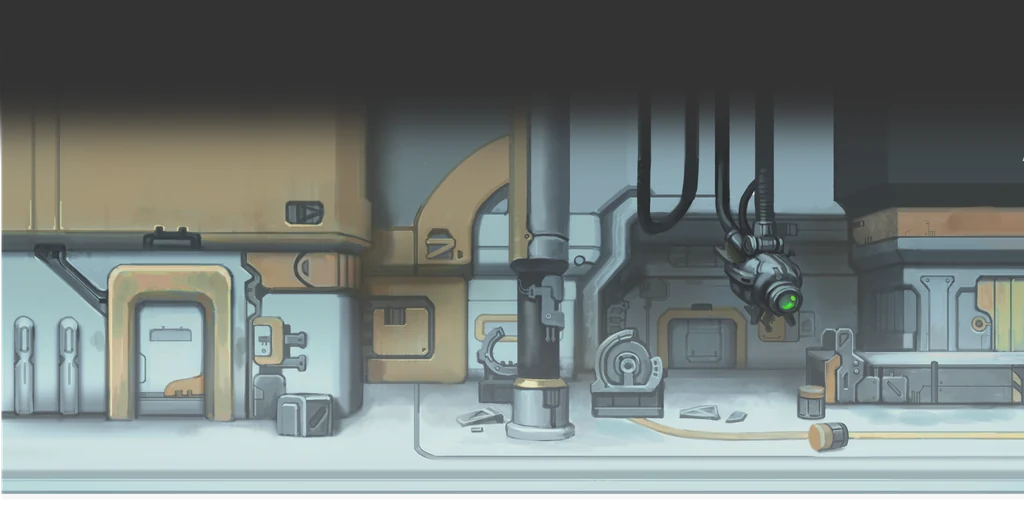
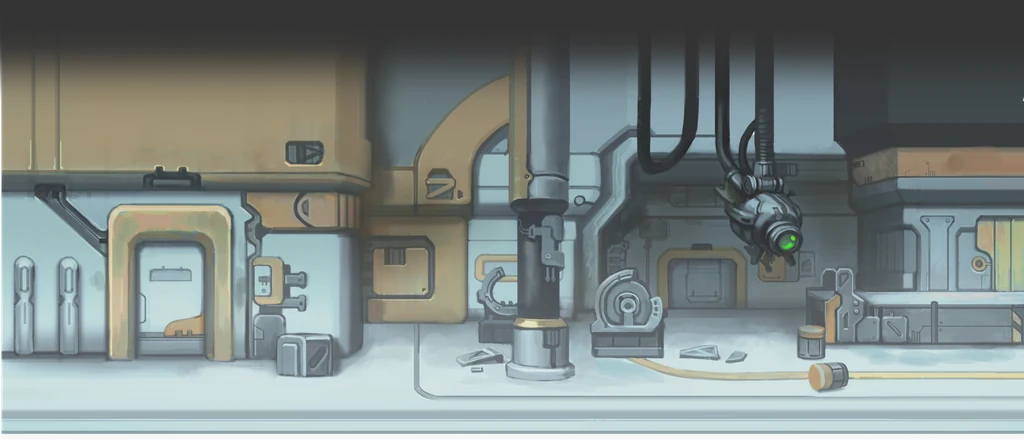
마을 다듬기: 밝은 마을은 어둠 덩어리 없이 은은한 빛만, 동굴 벽은 한 장 건너 뒤집어 이음선 없애기, 함장실 깔개 글자 바로, 휴게실 방은 화면을 바닥으로 채움, 드론 관제실에 관제 장비

diff --git a/js/town.js b/js/town.js
@@ -55,6 +55,9 @@
   };
   // 방: 원작 기지 시설 그림(배경 bg, 바닥이 시작하는 줄 fl, 옆벽 색 wall)과 가구. 사람·출구는 원래 방(지휘실·정비실·휴게실) 그대로
   const ROOM = (label, bg, fl, wall, deco) => ({ label, bg: 'town/' + bg, fl, wall, deco });
+  const PROPS = { // 장면 방에 놓는 소품: [그림, 가로 비율, 바닥 첫 줄에서 아래로, 칸 넓이, 그림 높이]
+    '드론 관제실': [['town/r_mm1_12', 0.12, 0, 1, 1.7], ['town/r_mk4_1', 0.24, 0, 1, 1.4], ['tiles/console', 0.7, 0, 2, 1.4], ['town/r_mm2_2', 0.86, 0, 1, 1.5]],
+  };
   // ── 지도 ──────────────────────────────────────────────
   // 칸: . 바탕  s 넓은 바닥  _ 길  ~ 물(막힘)  # 벼랑·잔해·덤불(막힘)  b 뒷배경 자리(막힘, 뒷배경 그림이 덮는다)  r 선로(막힘)
   function grid(W, H, fill, paint) {
@@ -96,7 +99,7 @@
   }
   const TOWNMAPS = {
     coast: {
-      rows: coastRows(), start: [12, 16], water: 'sea', dark: 0.1,
+      rows: coastRows(), start: [12, 16], water: 'sea',
       floor: { base: 'town/g_grass', zone: 'tiles/sand', path: 'tiles/sand', wall: 'tiles/forest', edge: 'rgba(70,50,20,.3)' },
       objects: [
         BLD('cmd', 'town/b_center', 4, 5, 5, 4, 6), BLD('shop', 'town/b_shop', 16, 5, 6, 4, 18), BLD('cafe', 'town/b_cafe', 9, 12, 6, 2, 11, { plinth: 0 }),
@@ -118,8 +121,8 @@
         R(0, 0, 26, 4, 'b'); R(0, 0, 1, 18, '#'); R(25, 0, 1, 18, '#'); R(0, 17, 26, 1, '#');
         R(1, 7, 24, 1, '_'); R(12, 7, 2, 11, '_'); R(3, 9, 20, 6, 's'); R(12, 7, 2, 11, '_'); R(21, 8, 1, 2, '_');
       }),
-      floor: { base: 'tiles/concrete', zone: 'tiles/factory', zoneA: 0.45, path: 'town/g_asph', wall: 'tiles/concrete', back: '#3b3a3c', lane: 'rgba(230,180,40,.8)', edge: 'rgba(0,0,0,0)' },
-      sky: ['#5d5a68', '#c79a72'], dark: 0.12, darkC: '20,14,10', fx: 'sparks', start: [12, 16],
+      floor: { base: 'tiles/concrete', zone: 'tiles/factory', zoneA: 0.22, path: 'town/g_asph', wall: 'tiles/concrete', back: '#3b3a3c', lane: 'rgba(230,180,40,.8)', edge: 'rgba(0,0,0,0)' },
+      sky: ['#5d5a68', '#c79a72'], fx: 'sparks', start: [12, 16],
       back: [{ art: 'town/t2_fence', by: 4.05, h: 2.0, repeat: 1 }],
       objects: [
         BLD('cmd', 'town/t2_cmd', 1, 4, 7, 3, 6), BLD('shop', 'town/t2_shop', 9, 4, 8, 3, 14), BLD('cafe', 'town/t2_cafe', 19, 4, 5, 3, 21),
@@ -145,7 +148,7 @@
         R(7, 10, 13, 6, 's'); R(2, 9, 22, 1, '_'); R(12, 5, 2, 13, '_'); R(5, 15, 7, 1, '_');
       }),
       floor: { base: 'tiles/forest', zone: 'town/g_grass', path: 'tiles/dirt', wall: 'tiles/forest', back: '#2e3a2c' },
-      sky: ['#6d88b3', '#f1c79a'], dark: 0.2, tint: '#ffe7c4', fx: 'leaves', start: [12, 16],
+      sky: ['#6d88b3', '#f1c79a'], tint: '#ffe7c4', fx: 'leaves', start: [12, 16],
       back: [{ art: 'town/t3_plant', by: 4.3, h: 5.6, x: 13 }, { art: 'town/t3_fence', by: 5.05, h: 2.1, repeat: 1 }, { art: 'town/t3_gate', by: 5.05, h: 2.1, x: 13, w: 12.5 }, { art: 'town/t3_bush', by: 5.25, h: 0.7, repeat: 1, alpha: 0.9 }],
       objects: [
         BLD('cmd', 'town/t3_cmd', 2, 6, 8, 3, 7, { plinth: 0 }), BLD('shop', 'town/b_ruin2', 17, 6, 6, 3, 21, { plinth: 0 }), BLD('cafe', 'town/t3_cafe', 4, 12, 5, 3, 7, { plinth: 0 }),
@@ -173,7 +176,7 @@
       floor: { base: 'tiles/cave', zone: 'tiles/concrete', path: 'tiles/labd', wall: 'tiles/cave', back: '#10161a', zoneA: 0.55 },
       sky: ['#05080b', '#0f1a20'], dark: 0.56, torch: 1, water: 'canal', fx: 'drip', start: [12, 16],
       lights: [[6, 13, 150, '255,150,90'], [3, 3.4, 150, '255,90,60'], [9, 3.6, 120, '120,220,230'], [16, 3.6, 120, '120,220,230'], [22, 3.4, 150, '255,90,60']],
-      back: [{ art: 'town/t4_cave', by: 4.15, h: 4.6, repeat: 1 }, { art: 'town/t4_ceil', by: 1.1, h: 1.1, repeat: 1 }],
+      back: [{ art: 'town/t4_cave', by: 4.15, h: 4.6, repeat: 1, mirror: 1 }, { art: 'town/t4_ceil', by: 1.1, h: 1.1, repeat: 1, mirror: 1 }],
       objects: [
         BLD('cmd', 'town/t4_cmd', 3, 6, 3, 3, 4, { plinth: 0, glow: '255,110,50' }), BLD('shop', 'town/t4_shop', 14, 6, 8, 3, 17, { plinth: 0, glow: '120,255,240' }), BLD('cafe', 'town/t2_booth', 3, 12, 6, 3, 6, { plinth: 0, glow: '255,200,140' }),
         D('tiles/crystal0', 1, 10, 1, 2.0, { lit: [130, '90,230,220'] }), D('tiles/crystal1', 22, 12, 2, 1.8, { lit: [140, '120,240,230'] }), D('tiles/crystal0', 10, 16, 1, 1.5, { lit: [100, '90,230,220'] }),
@@ -198,7 +201,7 @@
         R(3, 9, 20, 6, 's'); R(1, 8, 24, 1, '_'); R(12, 8, 2, 10, '_');
       }),
       floor: { base: 'tiles/labd', zone: 'tiles/factory', zoneA: 0.3, path: 'tiles/labw', wall: 'tiles/labd', back: '#0b1218', pathA: 0.3, lane: 'rgba(90,220,255,.35)' },
-      sky: ['#04070b', '#0d1c26'], dark: 0.3, fx: 'dust', start: [12, 16],
+      sky: ['#04070b', '#0d1c26'], dark: 0.2, fx: 'dust', start: [12, 16],
       back: [{ art: 'town/t5_platform', by: 5.15, h: 5.2, repeat: 1 }],
       objects: [
         BLD('cmd', 'town/t5_cmd', 10, 5, 6, 3, 12, { plinth: 0, glow: '140,230,255' }), BLD('shop', 'town/t5_shop', 18, 5, 6, 3, 20, { plinth: 0, glow: '255,90,90' }), BLD('cafe', 'town/t5_cafe', 2, 5, 6, 3, 4, { plinth: 0 }),
@@ -224,7 +227,7 @@
         R(7, 10, 11, 6, 's'); R(1, 9, 24, 1, '_'); R(12, 9, 2, 9, '_'); R(14, 15, 5, 1, '_'); R(21, 8, 1, 1, '_');
       }),
       floor: { base: 'town/g_snow', zone: 'town/g_snowpath', path: 'town/g_snowpath', wall: 'town/g_snowpath', back: '#cfd9e3', pathA: 0.45, edge: 'rgba(120,140,170,.22)', wallDark: 0.06 },
-      sky: ['#8ea6c2', '#eef3f8'], dark: 0.12, darkC: '30,45,80', fx: 'snow', start: [12, 16],
+      sky: ['#8ea6c2', '#eef3f8'], fx: 'snow', start: [12, 16],
       back: [{ art: 'town/t6_mount', by: 3.6, h: 5.4, x: 7 }, { art: 'town/t6_mount', by: 3.4, h: 4.2, x: 20, flip: 1, alpha: 0.85 },
         { art: 'town/t6_trees', by: 5.0, h: 3.4, x: 2.5 }, { art: 'town/t6_tree0', by: 4.9, h: 3.2, x: 23.5 }, { art: 'town/t6_tree2', by: 4.8, h: 2.6, x: 17.5 },
         { art: 'town/t6_fence', by: 5.1, h: 1.15, repeat: 1 }],
@@ -254,17 +257,17 @@
     r_train_0: { fl: 335, h: 512 }, r_dis2_0: { fl: 335, h: 512, blk: [[0.66, 1]] }, r_mm4_0: { fl: 395, h: 512, blk: [[0.06, 0.27], [0.43, 0.63], [0.88, 1]] },
     r_rein1_0: { fl: 360, h: 512 }, r_dis1_0: { fl: 360, h: 512 }, r_rein2_0: { fl: 345, h: 512, blk: [[0.66, 1]] },
     r_parts_1: { fl: 370, h: 512, blk: [[0, 0.17], [0.22, 0.74]] }, r_rein3_0: { fl: 345, h: 512, blk: [[0.66, 1]] },
-    r_cap: { fl: 425, h: 546, blk: [[0.18, 0.44]] }, r_mm0_0: { fl: 370, h: 512 },
-    r_factory: { fl: 525, h: 750, back: '#c3ccd8' }, r_lab: { fl: 410, h: 505 }, r_arch: { fl: 425, h: 552, blk: [[0, 0.16]] }, r_secret: { fl: 425, h: 556 },
+    r_cap: { fl: 425, h: 546, blk: [[0.56, 0.82]] }, r_mm0_0: { fl: 370, h: 512 },
+    r_factory: { fl: 525, h: 750, back: '#c3ccd8' }, r_lab: { fl: 350, h: 445 }, r_arch: { fl: 425, h: 552, blk: [[0, 0.16]] }, r_secret: { fl: 425, h: 556 },
     r_ware: { fl: 430, h: 552, blk: [[0, 0.2], [0.82, 1]] }, r_bio: { fl: 415, h: 498 },
     r_cafe1_0: { fl: 232, h: 340 }, r_cafe2_0: { fl: 232, h: 340 }, r_cafe3_0: { fl: 232, h: 340 },
     r_cafe4_0: { fl: 232, h: 340 }, r_cafe5_0: { fl: 232, h: 340 },
   };
   // 사람 자리 (가로 비율, 바닥 첫 줄에서 몇 줄 아래)
   const STAGE_NPC = { cmd: [['johanna', 0.6, 0], ['marie', 0.3, 1], ['labiata', 0.76, 1]], shop: [['fortune', 0.5, 0], ['pupphead', 0.26, 1], ['coco', 0.72, 1]], cafe: [['amy', 0.22, 1], ['scathy', 0.8, 1]] };
-  function stageRoom(k, name, bgPath, tint) {
+  function stageRoom(k, name, bgPath, tint, props) {
     const key = bgPath.replace('town/', ''), st = STAGE[key] || { fl: 340, h: 512 };
-    const W = st.w || 20, sc = (W * TILE) / 1024, top0 = st.fl * sc, floorH = Math.max((st.h - st.fl) * sc, TILE * 3.3);
+    const W = st.w || 20, sc = (W * TILE) / 1024, top0 = st.fl * sc, floorH = Math.max((st.h - st.fl) * sc, TILE * 3.3, TILE * 8.8 - top0); // 위아래 검은 띠 없이 화면을 채운다
     const H = Math.ceil((top0 + floorH) / TILE), off = H * TILE - (top0 + floorH);
     const r0 = Math.min(H - 2, Math.ceil((off + top0) / TILE + 0.45));
     const blocked = (x) => x < 1 || x > W - 2 || (st.blk || []).some(([a, b]) => (x + 0.5) / W > a && (x + 0.5) / W < b);
@@ -273,12 +276,13 @@
     const mid = Math.floor(W / 2), mx = blocked(mid) ? [...Array(W).keys()].filter((x) => !blocked(x)).sort((a, b) => Math.abs(a - mid) - Math.abs(b - mid))[0] : mid;
     const free = (x) => { for (let d = 0; d < W; d++) for (const s of [1, -1]) { const t = x + d * s; if (t > 0 && t < W - 1 && !blocked(t) && t !== mx) return t; } return x; };
     const objects = [{ t: 'exit', x: mx, y: H - 1, w: 1, h: 1, to: 'back' }, ...STAGE_NPC[k].map(([id, fx, dy]) => ({ t: 'npc', id, x: free(Math.round(fx * W)), y: Math.min(H - 2, r0 + dy), dir: fx > 0.5 ? -1 : 1 }))];
+    for (const [art, fx, dy, w, hh] of props || []) { const x = Math.max(1, Math.round(fx * W)), y = Math.min(H - 2, r0 + dy); if (x === mx || objects.some((o) => o.t === 'npc' && o.x >= x && o.x < x + w && o.y === y)) continue; objects.push({ t: 'deco', art, x, y, w, h: 1, hh, block: 1 }); }
     return { name, rows, indoor: 1, stage: { bg: bgPath, fl: st.fl, h: st.h, sc, top0, floorH, off, back: st.back }, bg: bgPath, tint, spawn: [mx, H - 2], objects };
   }
   const ROOMBG0 = { cmd: 'town/r_train_0', shop: 'town/r_dis2_0', cafe: 'town/r_cafe4_0' }; // 1장
   function baseFor(look, name) {
     const m = TOWNMAPS[look] || TOWNMAPS.coast, R = m.rooms;
-    for (const k of ['cmd', 'shop', 'cafe']) MAPS[k] = R ? stageRoom(k, R[k].label, R[k].bg, R[k].tint) : stageRoom(k, ROOMNAME0[k], ROOMBG0[k]);
+    for (const k of ['cmd', 'shop', 'cafe']) MAPS[k] = R ? stageRoom(k, R[k].label, R[k].bg, R[k].tint, PROPS[R[k].label]) : stageRoom(k, ROOMNAME0[k], ROOMBG0[k]);
     const objects = m.objects.map((o) => (o.t === 'building' ? Object.assign({}, o, { label: R ? R[o.to[0]].label : ROOMNAME0[o.to[0]] }) : o));
     return Object.assign({}, m, { name: name || '마을', bgm: 'lo_town', objects });
   }
@@ -608,7 +612,7 @@
       const dh = L.h * TILE, dw = L.w ? L.w * TILE : (im.naturalWidth * dh) / im.naturalHeight, y = L.by * TILE - dh;
       ctx.globalAlpha = L.alpha || 1;
       const one = (x) => { if (L.flip) { ctx.save(); ctx.translate(x + dw / 2, 0); ctx.scale(-1, 1); ctx.drawImage(im, -dw / 2, y, dw, dh); ctx.restore(); } else ctx.drawImage(im, x, y, dw, dh); };
-      if (L.repeat) { for (let x = ((mw / 2 - dw / 2) % dw) - dw; x < mw; x += dw - 1) one(x); }
+      if (L.repeat) { let i = 0; for (let x = ((mw / 2 - dw / 2) % dw) - dw; x < mw; x += dw - 1, i++) { if (L.mirror && i % 2) { ctx.save(); ctx.translate(x + dw / 2, 0); ctx.scale(-1, 1); ctx.drawImage(im, -dw / 2, y, dw, dh); ctx.restore(); } else one(x); } }
       else one(L.x * TILE - dw / 2);
       ctx.globalAlpha = 1;
     }

diff --git a/tools/build_town.py b/tools/build_town.py
@@ -179,7 +179,9 @@ ROOMBG = {
     'r_factory': ('BG_07_Factory_inside/Factory_Wall_floor_all_N.png', 1500),
     'r_lab': ('BG_12_Laboratory_in/BG_Laboratory_in_m.png', 1010),
 }
-FLIP = {'r_cap'}  # 원작 그림의 문 앞 깔개 글자가 좌우로 뒤집혀 있어 그림을 뒤집는다
+FLIP = set()
+TOP = {'r_lab': 120}  # 위쪽의 흐린 회색 띠는 잘라 낸다
+MAT = {'r_cap': (840, 790, 1100, 845)}  # 문 앞 깔개 글자가 거꾸로(180도) 그려져 있어 깔개만 바로 돌린다 (원본 좌표)
 
 
 def main():
@@ -206,7 +208,9 @@ def main():
     for name, src, x, y, w, h, n in SNOWHOUSE:
         add_snow(shrink(cut(src, x, y, w, h), n)).save(os.path.join(OUT, name + '.webp'), quality=90, method=6)
     for name, (src, h) in ROOMBG.items():
-        im = Image.open(B + src).convert('RGBA').crop((0, 0, 2048, h))
+        im = Image.open(B + src).convert('RGBA').crop((0, TOP.get(name, 0), 2048, h))
+        if name in MAT:
+            box = MAT[name]; im.paste(im.crop(box).rotate(180), box[:2])
         im = shrink(im, 1024)
         if name in FLIP:
             im = im.transpose(Image.FLIP_LEFT_RIGHT)
